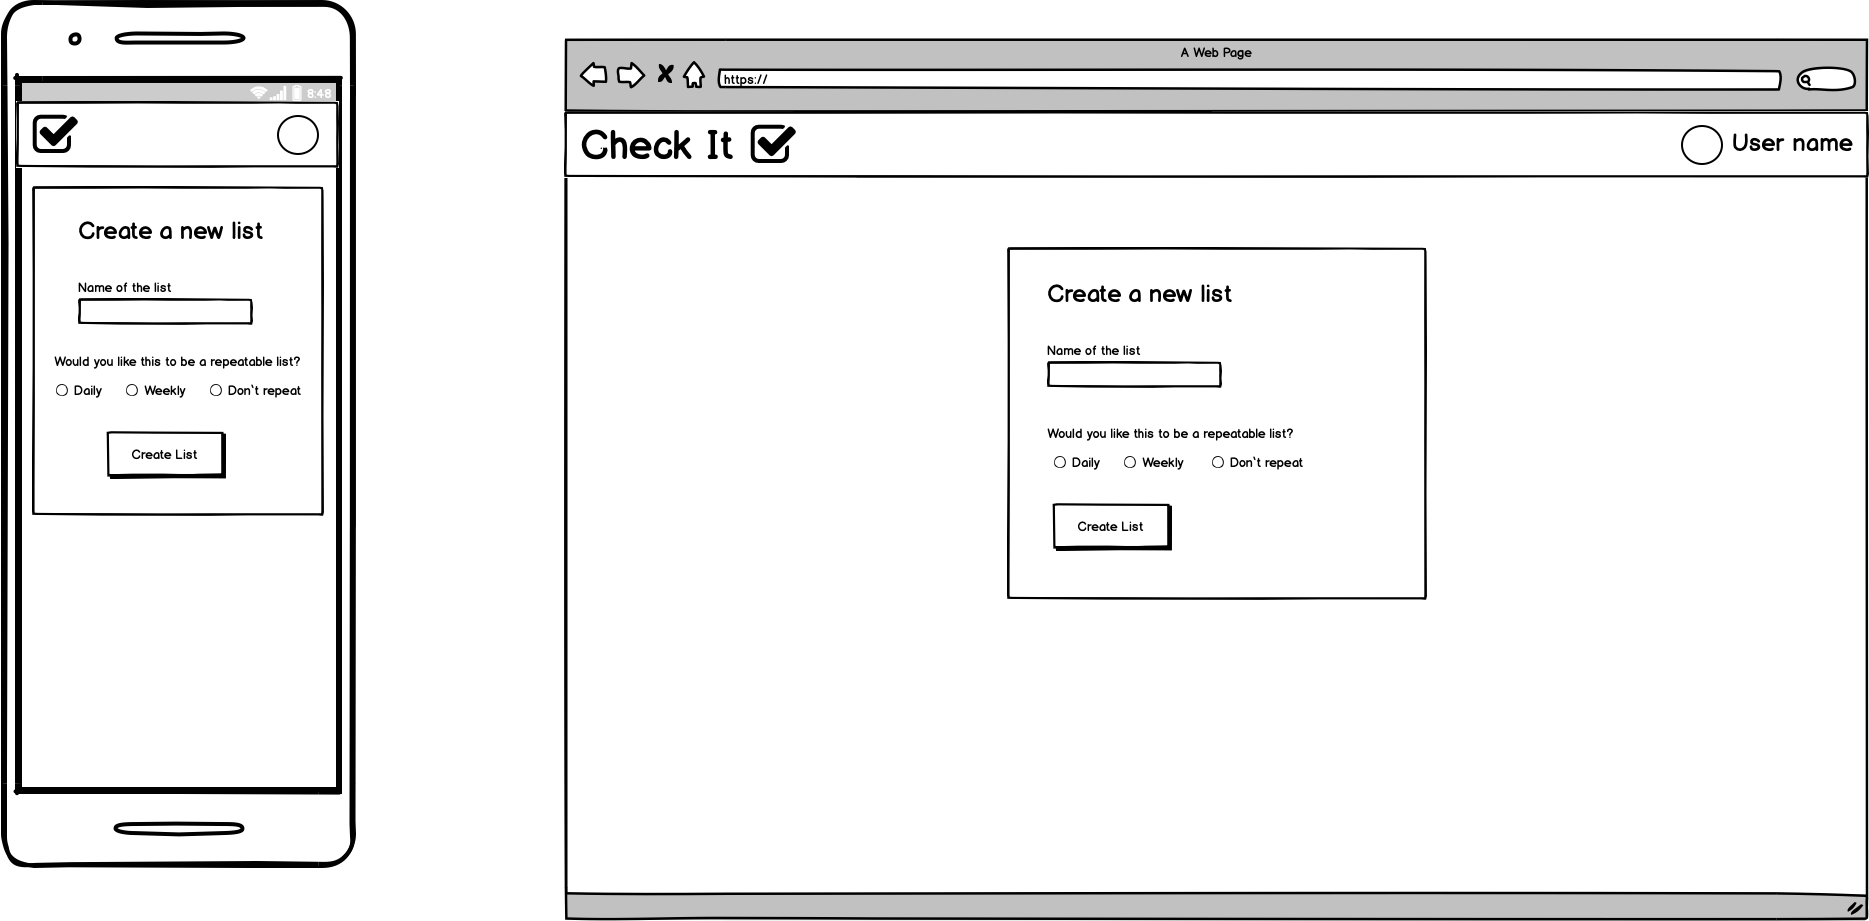
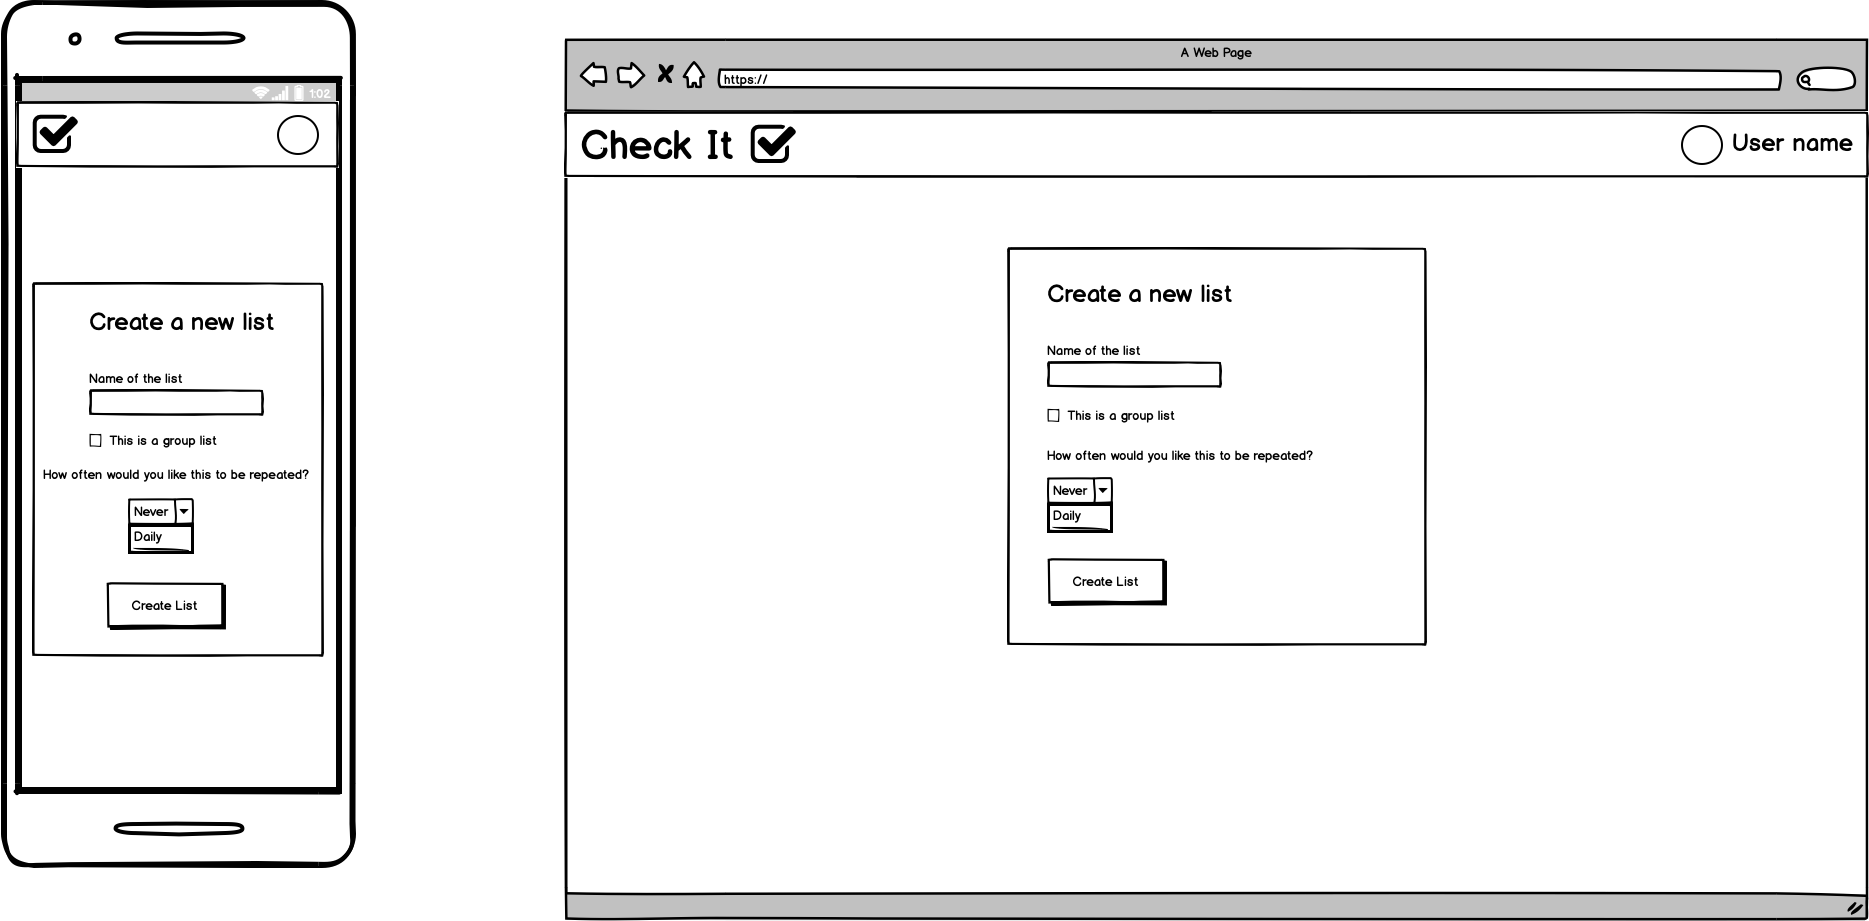
Altered wireframes for additional functionality and added new ones into README

diff --git a/README.md b/README.md
@@ -94,15 +94,28 @@ This card can be created on top of the page currently being viewed or can be a s
 
 ![Create List Page Wireframe](docs/wireframes/create_list_page.png)
 
-#### Edit List Page
-To implement the ability to rearrange list items, either allow each item to be dragged up and down with the mouse or need to add in up/down buttons that appear for the item currently moused over which can move the item in the appropriate direction.
-
-![Edit List Page Wireframe](docs/wireframes/edit_list_page.png)
-
-#### View List Page
+#### View Personal List Page
 This page is viewed when a list is clicked on. Clicking list items on this page will toggle their checkbox, this is the only page other than the dashboard where list items can be toggled between checked and not checked. The reset button at the top right of the list view can be clicked to reset the completion state of all the lists items, i.e. it marks everything as not completed. Clicking back takes the user back to their dashboard page.
 
-![View List Page Wireframe](docs/wireframes/view_list_page.png)
+![View Personal List Page Wireframe](docs/wireframes/view_personal_list_page.png)
+
+#### Edit Personal List Page
+To implement the ability to rearrange list items, either allow each item to be dragged up and down with the mouse or need to add in up/down buttons that appear for the item currently moused over which can move the item in the appropriate direction.
+
+![Edit Personal List Page Wireframe](docs/wireframes/edit_personal_list_page.png)
+
+#### Group List Invite Send/Receive
+
+![Group List Invite Send Wireframe](docs/wireframes/group_list_send_invite.png)
+![Group List Invite Receive Wireframe](docs/wireframes/group_list_receive_invite.png)
+
+#### View Group List Page
+
+![View Group List Page Wireframe](docs/wireframes/view_group_list_page.png)
+
+#### Edit Group List Page
+
+![Edit Group List Page Wireframe](docs/wireframes/edit_group_list_page.png)
 
 ## Database Schema
 
